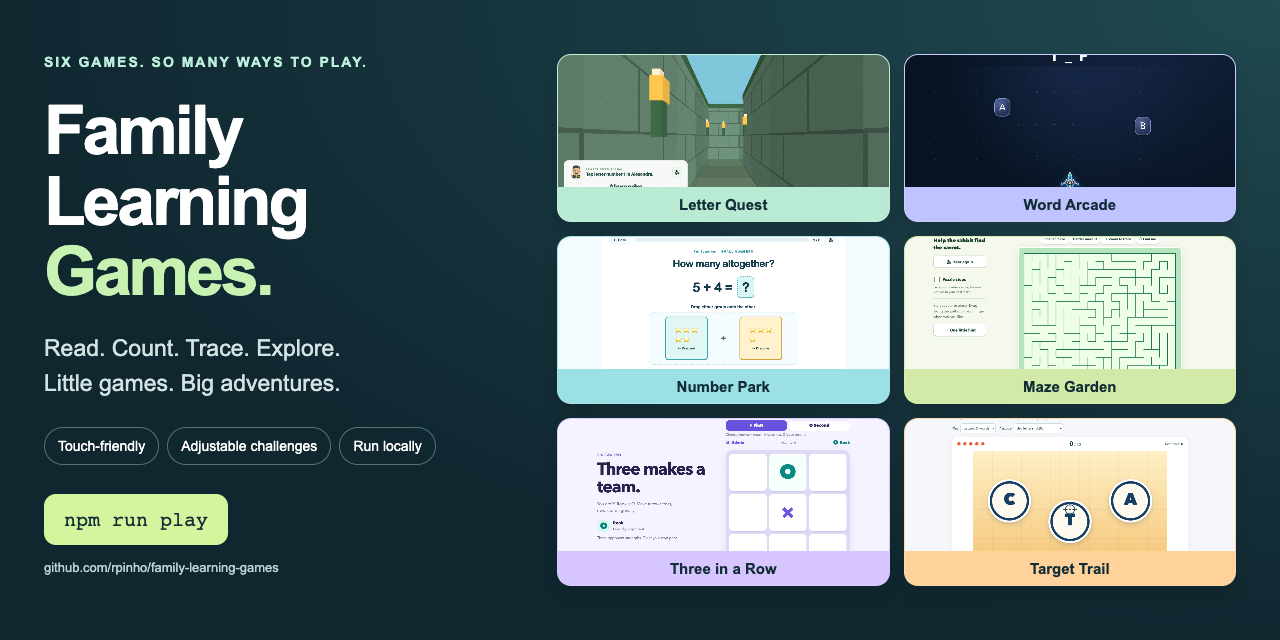
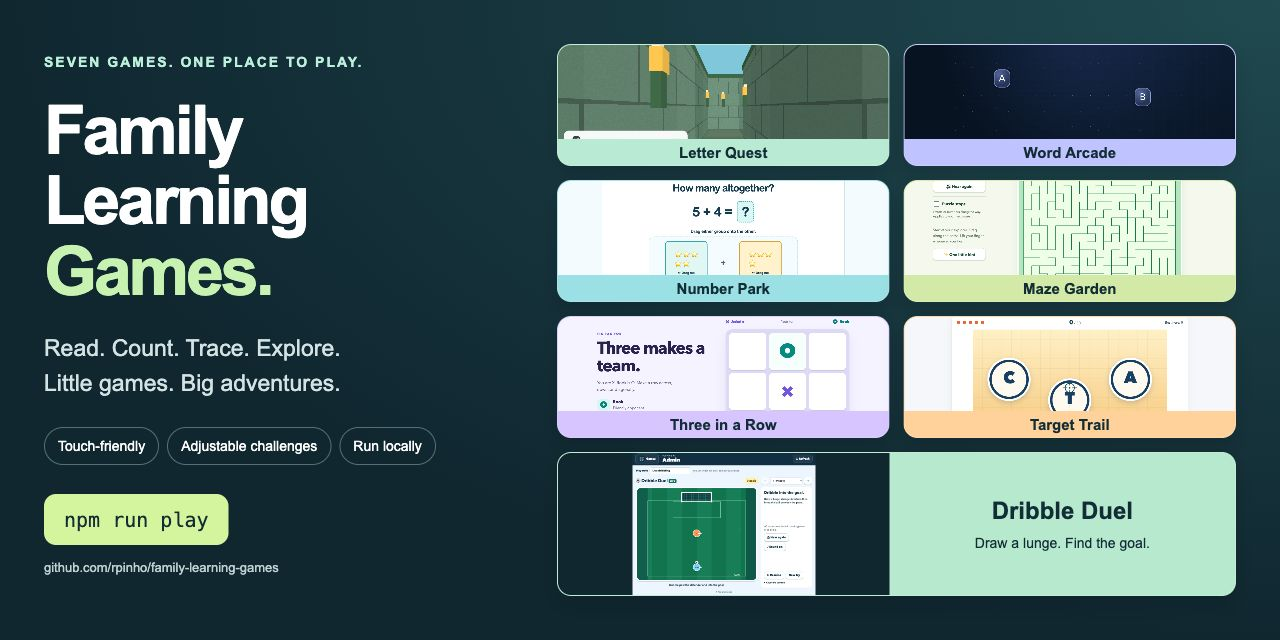
Show Dribble Duel in the seven-game showcase

diff --git a/docs/showcase/README.md b/docs/showcase/README.md
@@ -2,8 +2,10 @@
 
 These images show actual gameplay from the public edition, using the isolated **Admin** test preset. No household profiles, names, drawings or logs were used. Scores are demonstration state, not children's performance or evidence of educational effectiveness.
 
-The six original, unretouched browser captures are in `screenshots/`. The feature cards in `../media/` add HTML/CSS framing and descriptions; they do not replace gameplay with illustrated mockups. The 1280 × 640 `social-preview.png` is intended for GitHub's repository Settings → Social preview and a LinkedIn Featured link.
+The seven unretouched browser captures are in `screenshots/`. The feature cards in `../media/` add HTML/CSS framing and descriptions; they do not replace gameplay with illustrated mockups. The 1280 × 640 `social-preview.png` is intended for GitHub's repository Settings → Social preview and a LinkedIn Featured link.
 
 To re-render the layouts, install Playwright as optional documentation tooling, then run `node docs/showcase/render.mjs`. Install its Chromium browser first, or set `CHROME_PATH` to a local Chrome executable. `PLAYWRIGHT_MODULE` can point to a separately installed Playwright module. These are not game-runtime dependencies.
 
-When recapturing, use a separate local installation and the Admin preset. Open each activity before taking the screenshot: Letter Quest's letter maze, Word Arcade's Letter Blaster, Number Park's Put together, Maze Garden's tracing board, a Three in a Row match after a move, and Target Trail's Letters & words round. Review every screenshot and its metadata before publishing. Do not use a live child's session or upload private screenshots to issues.
+For rendering through a connected browser instead, run `SHOWCASE_HTML_DIR=/tmp/family-showcase-render node docs/showcase/render.mjs --html-only`, serve that directory locally, and capture each standalone page. Feature cards are 1440 × 1360; the social preview is 1280 × 640.
+
+When recapturing, use a separate local installation and the Admin preset. Open each activity before taking the screenshot: Letter Quest's letter maze, Word Arcade's Letter Blaster, Number Park's Put together, Maze Garden's tracing board, a Three in a Row match after a move, Target Trail's Letters & words round, and Dribble Duel's live pitch. Review every screenshot and its metadata before publishing. Do not use a live child's session or upload private screenshots to issues.

diff --git a/README.md b/README.md
@@ -1,8 +1,8 @@
 # Family Learning Games
 
-![Family Learning Games — gameplay previews from the original six games](docs/media/social-preview.png)
+![Family Learning Games — gameplay previews of all seven games](docs/media/social-preview.png)
 
-**One app. Seven ways to play.** A single game-picker home screen brings together seven games for reading, numbers, drawing, mazes, strategy, and live soccer dribbling. The image above previews the original six; **Dribble Duel** is the seventh. Install the hub once, then switch games without another website. This is a **self-hosted source collection**, not a public online classroom or hosted play service.
+**One app. Seven ways to play.** A single game-picker home screen brings together seven games for reading, numbers, drawing, mazes, strategy, and live soccer dribbling. Install the hub once, then switch games without another website. This is a **self-hosted source collection**, not a public online classroom or hosted play service.
 
 After setup, open **http://localhost:4810/**. Choose a player once; their name stays large at the top and their progress stays separate. Use **Games** to return home, **Refresh** to reload, and **Grown-ups** to change the device's player.
 
@@ -15,6 +15,13 @@ After setup, open **http://localhost:4810/**. Choose a player once; their name s
 Drag, trace, steer, aim, and think ahead. Pick an activity and a manageable challenge, then play together.
 
 <table>
+<tr>
+<td colspan="2" align="center">
+<a href="hub/README.md#dribble-duel"><img src="docs/media/dribble-duel.png" alt="Dribble Duel: a live soccer pitch with a defender, player, ball, and netted goal" width="72%"></a><br>
+<strong>Dribble Duel — draw a lunge. Find the goal.</strong><br>
+Change direction, carry the ball past the defender, and earn a spoken letter or word reward.
+</td>
+</tr>
 <tr>
 <td width="50%" valign="top">
 <a href="games/letter-quest"><img src="docs/media/letter-quest.png" alt="Letter Quest: a first-person green labyrinth with a letter-position puzzle" width="100%"></a>
